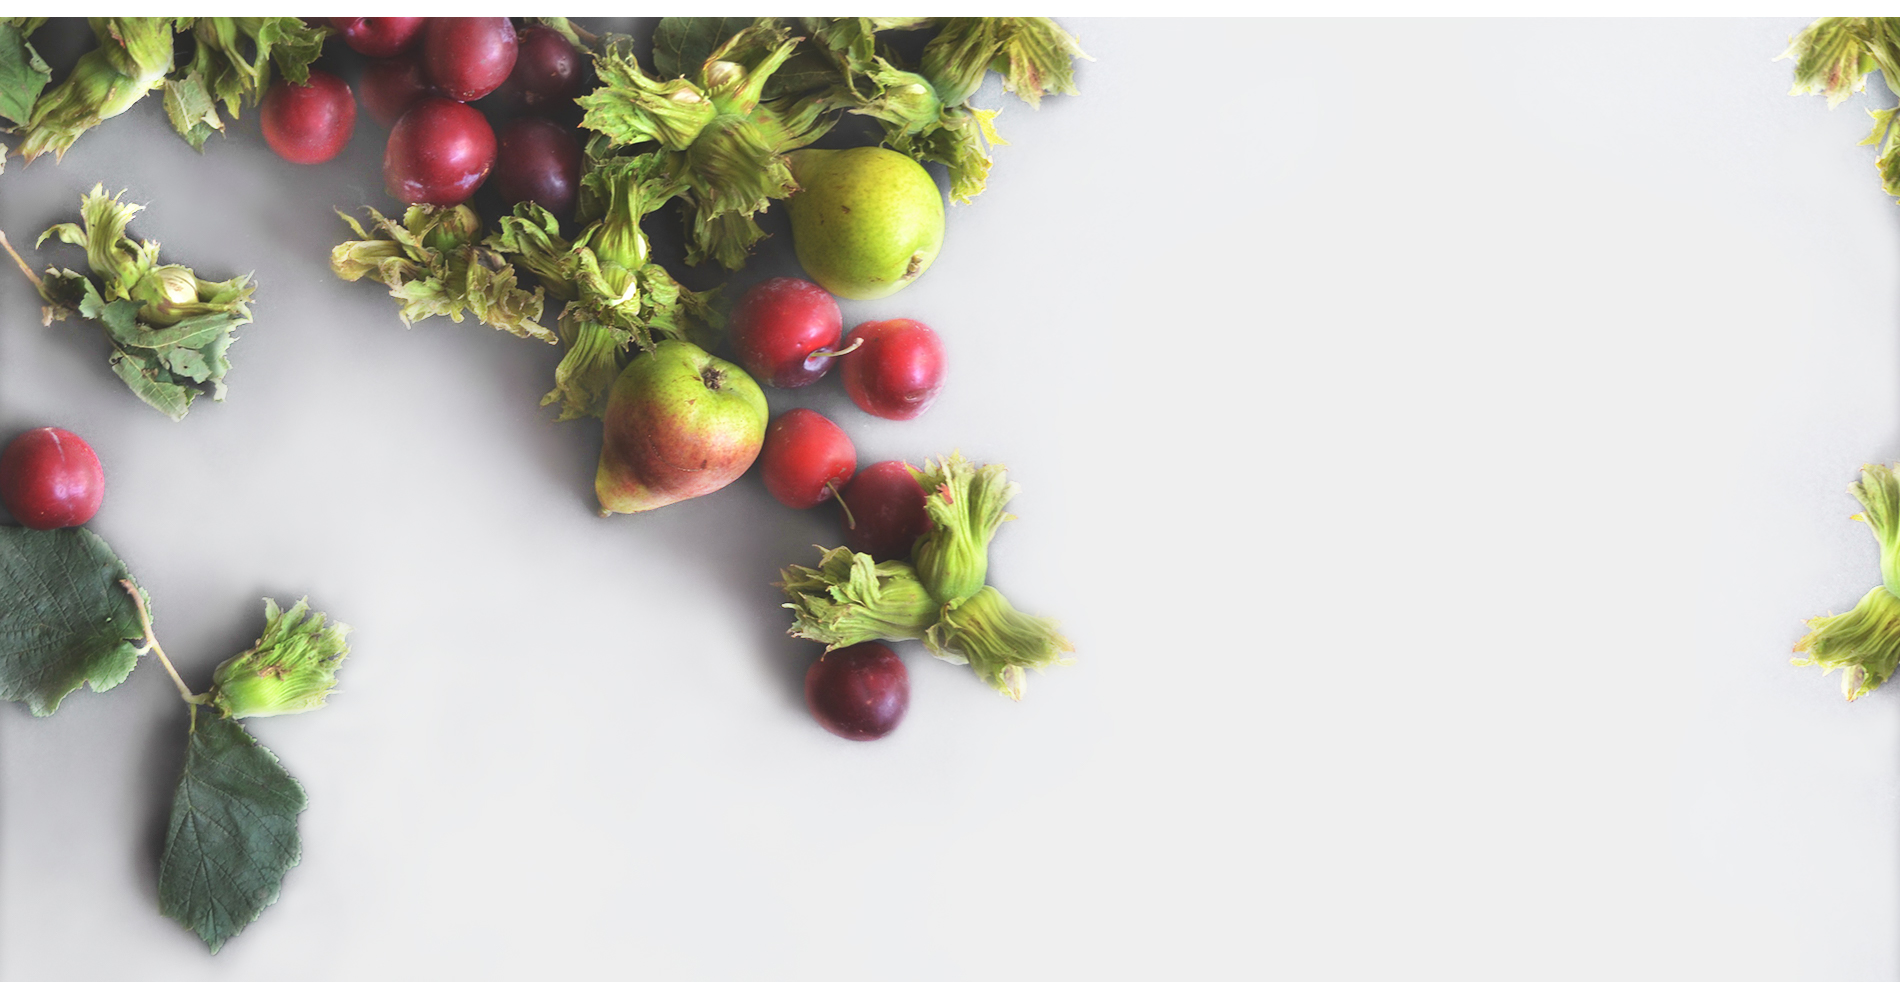
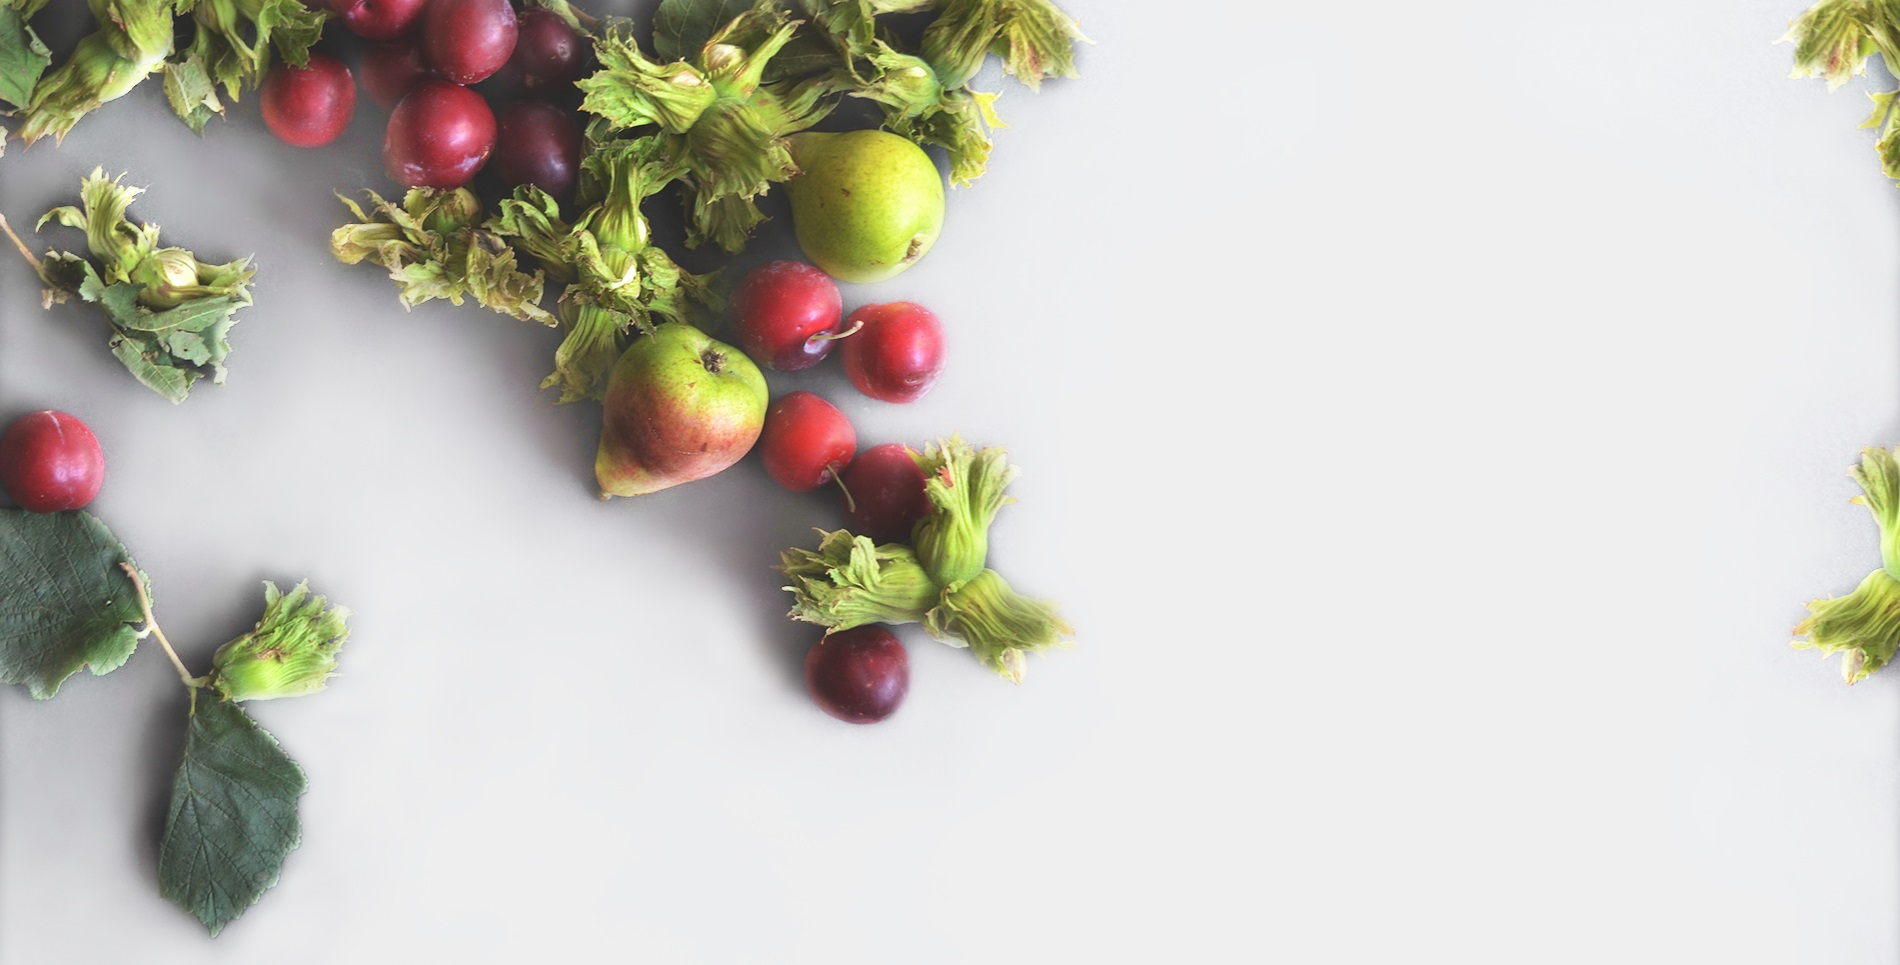
Finished responsive Contacts section

diff --git a/dev/sass/blocks/_contacts.sass b/dev/sass/blocks/_contacts.sass
@@ -1,0 +1,165 @@
+.page-main__contacts
+	position: relative
+	box-sizing: border-box
+	border: 1px dashed transparent
+	width: 100vw
+	height: 950px
+	background-image: url(../img/footer-bg.jpg)
+	background-repeat: no-repeat
+	background-size: cover
+	background-position: center
+	padding: 0
+	
+	
+.contacts__wrapper
+	position: absolute
+	top: 100px
+	right: 10%
+	width: 580px
+	display: -webkit-flex
+	display: -moz-flex
+	display: -ms-flex
+	display: -o-flex
+	display: flex
+	flex-flow: column
+	justify-content: space-between
+	align-items: center
+	
+.contacts__text
+	width: 100%
+	display: -webkit-flex
+	display: -moz-flex
+	display: -ms-flex
+	display: -o-flex
+	display: flex
+	justify-content: space-between
+	font-family: "Merriweather", Arial, sans-serif
+	font-size: 16px
+	line-height: 24px
+	color: #4a4b4b
+	
+.contacts__text--adress,
+.contacts__text--res
+	width: 35%
+	margin-bottom: 95px
+	
+.contacts__text--adress h6,
+.contacts__text--res h6
+	font-family: "Merriweather", Arial, sans-serif
+	text-transform: uppercase
+	font-size: 18px
+	color: #4a4b4b
+	margin-bottom: 10px 
+	
+.contacts__title
+	margin-bottom: 130px
+	
+.contacts__form
+	width: 100%
+	display: -webkit-flex
+	display: -moz-flex
+	display: -ms-flex
+	display: -o-flex
+	display: flex
+	flex-flow: column
+	justify-content: space-between
+	align-items: center
+	
+.form__title
+	align-self: flex-start
+	font-family: "Merriweather", Arial, sans-serif
+	text-transform: uppercase
+	font-size: 18px
+	color: #4a4b4b
+	margin-bottom: 45px
+
+.form__wrapper
+	width: 100%
+	display: -webkit-flex
+	display: -moz-flex
+	display: -ms-flex
+	display: -o-flex
+	display: flex
+	justify-content: space-between
+	
+.form__name,
+.form__email
+	width: 45%
+	margin-bottom: 65px
+
+.form__texarea
+	width: 100%
+	margin-bottom: 55px
+	
+
+input[type=text],
+input[type=email],
+textarea
+	box-sizing: border-box
+	border: none
+	background: none
+	border-bottom: 1px solid #3c3c3c
+	resize: none
+	font-family: "Merriweather", Arial, sans-serif	
+	font-size: 18px
+	font-style: italic
+	color: #4a4b4b
+	padding-left: 20px
+	padding-bottom: 5px
+	
+input[type=text]:focus,
+input[type=email]:focus,
+textarea:focus
+	outline: none
+	border: 1px solid #3c3c3c
+	border-radius: 2px
+	
+@media (max-width: 1650px)
+	.page-main__contacts
+			background-position: -300px 0
+
+@media (max-width: 1300px)
+	.page-main__contacts
+		background-position: -600px 0
+		
+	.contacts__wrapper
+		width: 320px
+		right: 17%
+		
+	.contacts__text
+		flex-direction: column
+		div
+			width: 100%
+			margin-bottom: 30px
+		
+	.form__wrapper
+		flex-direction: column
+	
+	.form__name,
+	.form__email
+		width: 100%
+		margin-bottom: 45px
+		
+@media (max-width: 950px)
+	.page-main__contacts
+		background-position: -950px 0
+	
+	.form__title
+		align-self: center
+
+	.contacts__wrapper
+		left: 30%
+	
+	.contacts__text--adress,
+	.contacts__text--res
+		text-align: center
+		
+@media (max-width: 500px)
+	.page-main__contacts
+		background-position: -1000px 0
+		
+	.contacts__wrapper
+		left: 6%
+
+	
+		

diff --git a/dev/index.html b/dev/index.html
@@ -24,7 +24,7 @@
         <section class="page-main__features">
             <h2 class="visually-hidden">Our features</h2>
             <ul class="features__list">
-                <li class="features__item features__item--turnip">                
+                <li class="features__item features__item--turnip">
                     <img class="features__icon" src="../img/svg/noodle.png" alt="noodle icon" width="85" height="75">
                     <h3 class="features__title">Turnip greens</h3>
                     <p class="features__text">Lorem ipsum dolor sit amet, consectetur adipisc. Pellentesque vel enim a elit viverra elementuma. Aliquam erat volutpat.</p>
@@ -206,7 +206,7 @@
         </section>
         <section class="page-main__contacts">
             <div class="contacts__wrapper">
-                <h2 class="contacts__title title">Contacts</h2>
+                <h2 class="contacts__title title">Contact</h2>
                 <div class="contacts__text">
                     <div class="contacts__text--adress">
                         <h6>Veggie</h6>
@@ -219,22 +219,16 @@
                             <br>+48 202-555-0114</p>
                     </div>
                 </div>
+                <form id="contactsForm" action="mailto:contacts@veggie.com" class="contacts__form">
+                    <h3 class="form__title">Contact form</h3>
+                    <div class="form__wrapper">                       
+                            <input id="name" class="form__name" type="text" name="user" placeholder="Name" required>
+                            <input id="email" class="form__email" type="email" name="email" placeholder="Email" required>
+                    </div>
+                        <textarea id="textarea" class="form__texarea" rows="1" placeholder="Message" required></textarea>
+                    <button id="submit" class="button button__submit" type="submit">Send</button>
+                </form>
             </div>
-            <form id="contactsForm" action="mailto:contacts@veggie.com" class="contacts__form">
-                <h3 class="form__title">Contact</h3>
-                <div class="form__wrapper">
-                    <div class="form__item form__item--name">
-                        <input id="name" class="form__field" type="text" name="user" placeholder="Name" required>
-                    </div>
-                    <div class="form__item form__item--email">
-                        <input id="email" class="form__field" type="email" name="email" placeholder="Email" required>
-                    </div>
-                    <div class="form__item form__item--text">
-                        <textarea id="textarea" class="form__field" rows="1" placeholder="Message" required></textarea>
-                    </div>
-                    <button id="submit" class="form__btn--submit" type="submit">Submit</button>
-                </div>
-            </form>
         </section>
     </main>
     <footer class="page-main__footer">

diff --git a/dev/sass/commons/_scaffolding.sass b/dev/sass/commons/_scaffolding.sass
@@ -14,7 +14,7 @@
 	font-weight: lighter
 	font-size: 40px
 	line-height: 50px
-	color: #3c3c3c
+	color: #4a4b4b
 	text-align: center
 	
 	
@@ -28,3 +28,28 @@
 	bottom: -2em
 	left: 50%
 	transform: translate(-50%, -50%)
+	
+.button
+	width: 100px
+	height: 50px
+	display: -webkit-flex
+	display: -moz-flex
+	display: -ms-flex
+	display: -o-flex
+	display: flex
+	justify-content: center
+	align-content: center
+	background: none
+	border: 1px solid #6b6c6c
+	transition: border 0.4s
+	font-family: "Merriweather", Arial, Sans-serif
+	font-size: 18px
+	color: #3c3c3c
+
+.button:hover,
+.button:focus
+	border: 1px solid #000
+	color: #000
+
+
+	

diff --git a/dev/sass/main.sass b/dev/sass/main.sass
@@ -6,3 +6,5 @@
 @import "blocks/specials"
 @import "blocks/about"
 @import "blocks/menu"
+@import "blocks/contacts"
+
